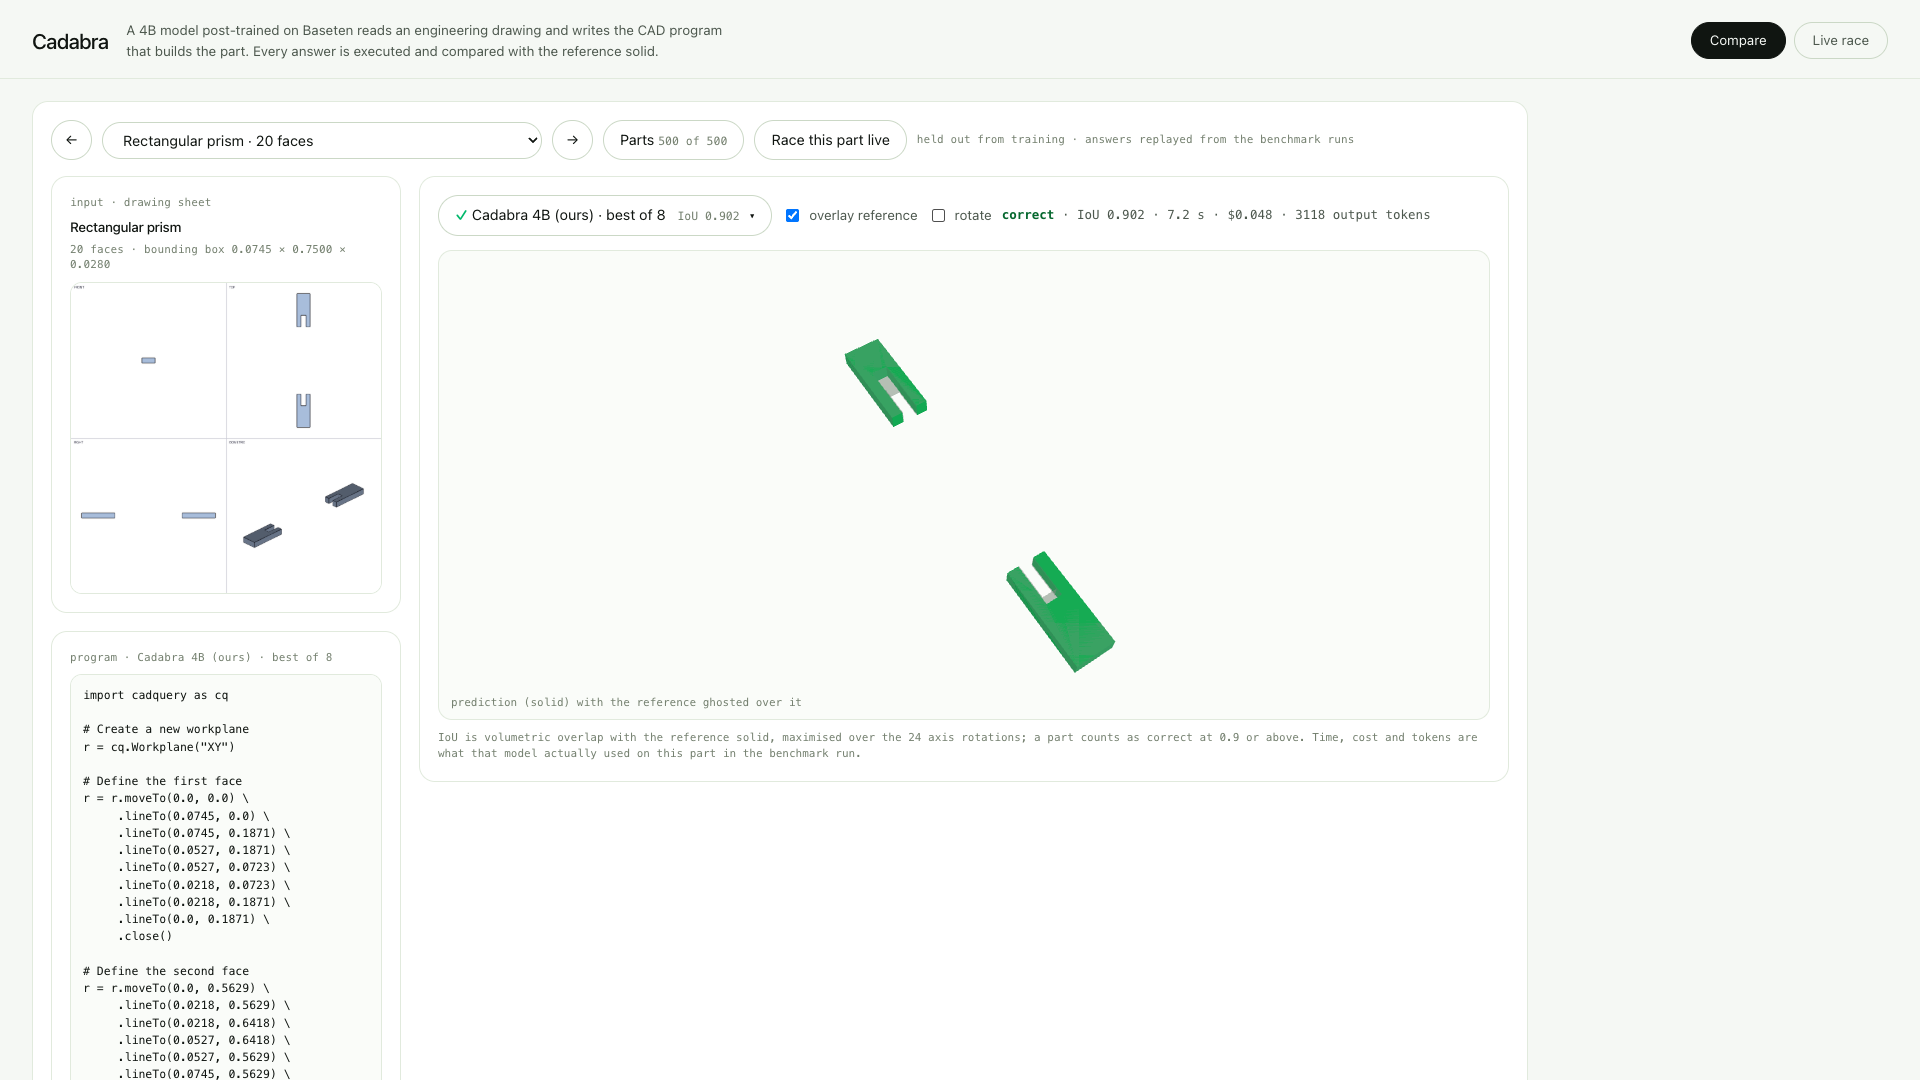
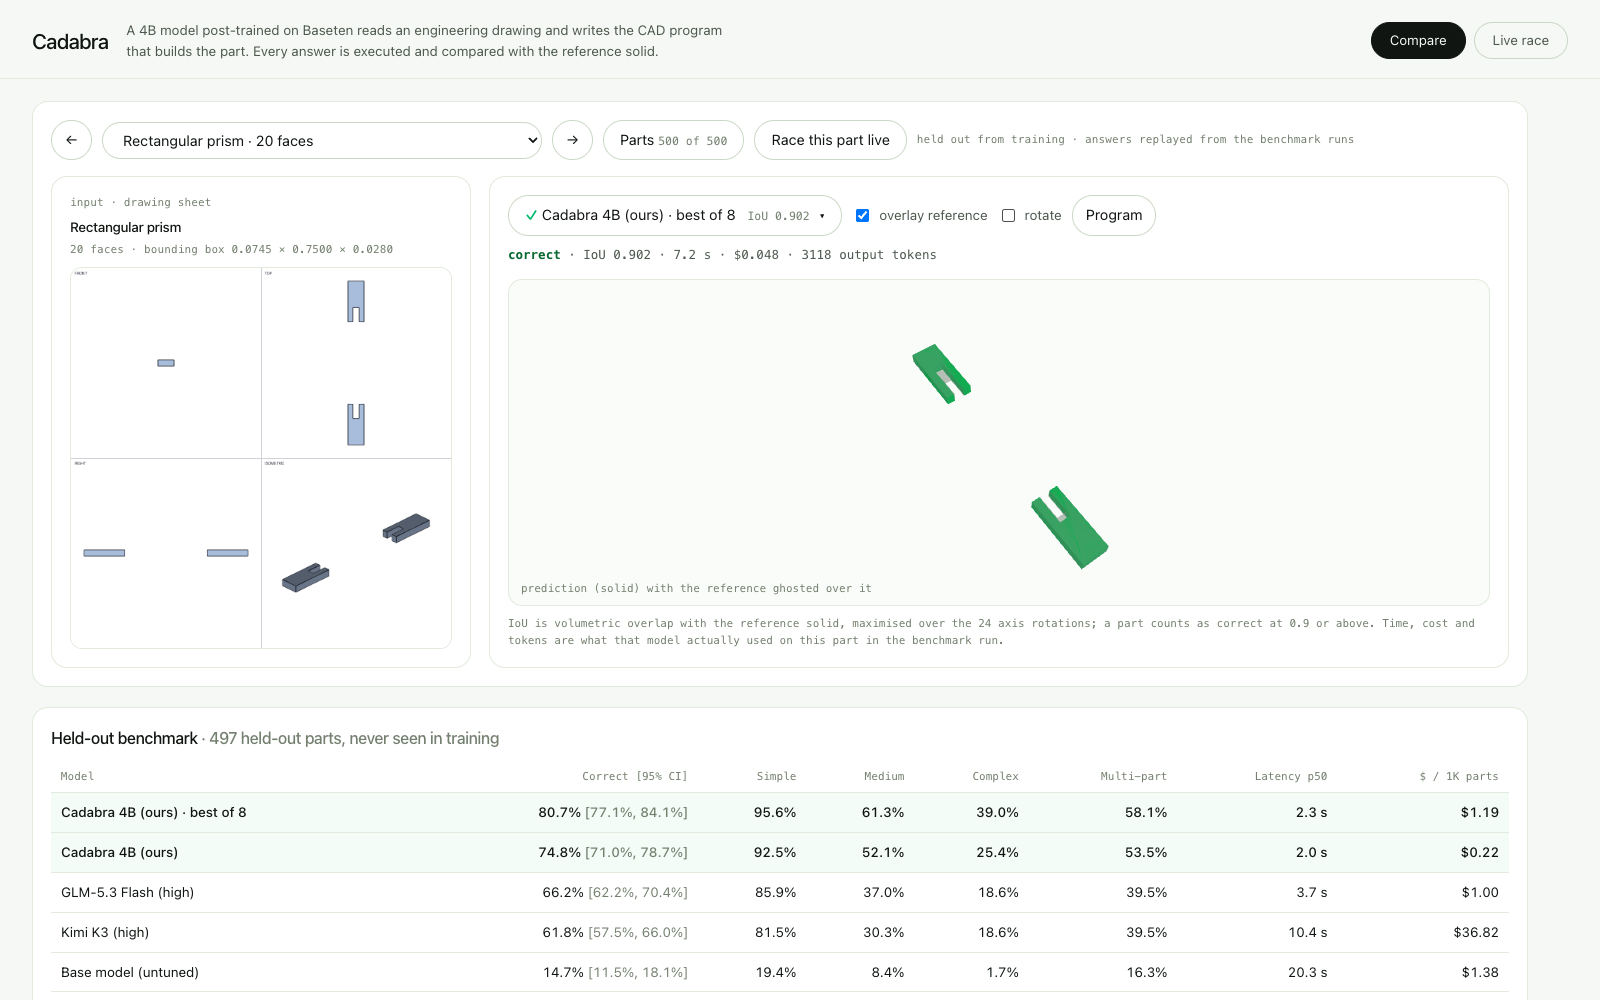
Compare: one tile of drawing, one of geometry, ending on the same line
The program panel under the drawing made the left column taller than the right and left a band of empty page beside
it. The program moves behind a Program button in the stage toolbar, as a slide-over like the parts list, and the two
tiles now stretch to a common height that the drawing sets: it keeps its square aspect so no empty card shows under
it, and the stage fills whatever height that is (flex-basis 0, or the canvas's own size feeds back into the layout
and the tile grows on every resize). The wider left column also makes the drawing legible at 382px instead of 312px.

diff --git a/app/static/index.html b/app/static/index.html
@@ -38,9 +38,16 @@
   label.check { display: inline-flex; align-items: center; gap: 7px; color: var(--ink-2); font-size: 13.5px; }
   .card { background: var(--surface); border: 1px solid var(--line); border-radius: 16px; padding: 18px; min-width: 0; }
   .split { display: grid; grid-template-columns: minmax(260px, 350px) minmax(0, 1fr); gap: 18px; align-items: start; }
+  /* Compare: the drawing sets the height of the row -- it keeps its own square aspect, so no band of empty card under
+     it -- and the stage stretches to meet it, so neither tile ends short of the other. A wider left column therefore
+     buys a bigger drawing and a bigger stage at once. */
+  .split.flush { grid-template-columns: minmax(300px, 420px) minmax(0, 1fr); align-items: stretch; }
+  .split.flush > .card:last-child { display: flex; flex-direction: column; }
+  /* flex-basis 0, or the canvas's own size counts as content height and each resize grows the tile again */
+  .split.flush .stage { flex: 1 1 0; height: auto; min-height: 320px; }
   @media (max-width: 1020px) { .split { grid-template-columns: 1fr; } }
   .sheet img { width: 100%; border: 1px solid var(--line); border-radius: 12px; background: #fff; display: block; }
-  .col { display: grid; gap: 18px; align-content: start; }
+
   .dropdown { position: relative; }
   .model-btn { display: inline-flex; align-items: center; gap: 9px; max-width: 460px; }
   .menu { position: absolute; z-index: 40; top: calc(100% + 6px); left: 0; min-width: 330px; background: var(--surface);
@@ -133,18 +140,12 @@
       <span class="label" id="partnote"></span>
     </div>
 
-    <div class="split" style="margin-top:16px">
-      <div class="col">
-        <div class="card sheet">
-          <div class="label">input · drawing sheet</div>
-          <h3 style="margin:6px 0 4px" id="parttitle"></h3>
-          <div class="label" style="margin-bottom:10px" id="bboxline"></div>
-          <img id="sheet" alt="drawing sheet">
-        </div>
-        <div class="card">
-          <div class="label" id="codeowner">program</div>
-          <pre id="stagecode" style="margin-top:8px"></pre>
-        </div>
+    <div class="split flush" style="margin-top:16px">
+      <div class="card sheet" id="sheetcard">
+        <div class="label">input · drawing sheet</div>
+        <h3 style="margin:6px 0 4px" id="parttitle"></h3>
+        <div class="label" style="margin-bottom:10px" id="bboxline"></div>
+        <img id="sheet" alt="drawing sheet">
       </div>
 
       <div class="card">
@@ -155,6 +156,7 @@
           </div>
           <label class="check"><input type="checkbox" id="overlay" checked> overlay reference</label>
           <label class="check"><input type="checkbox" id="spin" checked> rotate</label>
+          <button id="progBtn" class="icon">Program</button>
           <span class="stats" id="stagestats"></span>
         </div>
         <div class="stage" id="stage"><span class="hint" id="stagehint"></span></div>
@@ -195,6 +197,14 @@
 </main>
 
 <div class="backdrop" id="backdrop" hidden></div>
+<aside class="drawer" id="progdrawer" hidden aria-label="program">
+  <div class="bar" style="justify-content:space-between">
+    <h2>Program</h2>
+    <button id="progClose" class="icon" title="close (Esc)">✕</button>
+  </div>
+  <div class="label" id="codeowner" style="margin-top:12px">program</div>
+  <pre id="stagecode" style="margin-top:8px; max-height:none"></pre>
+</aside>
 <aside class="drawer" id="drawer" hidden aria-label="parts">
   <div class="bar" style="justify-content:space-between">
     <h2>Parts</h2>
@@ -550,12 +560,22 @@ function drawList() {
 
 function openDrawer(open) {
   $("#drawer").hidden = !open;
-  $("#backdrop").hidden = !open;
+  if (open) $("#progdrawer").hidden = true;
+  syncBackdrop();
   if (open) { drawList(); $("#search").focus(); }
 }
+function openProgram(open) {
+  $("#progdrawer").hidden = !open;
+  if (open) $("#drawer").hidden = true;
+  syncBackdrop();
+}
+const syncBackdrop = () => ($("#backdrop").hidden = $("#drawer").hidden && $("#progdrawer").hidden);
+const closePanels = () => { openDrawer(false); openProgram(false); };
 $("#partsBtn").onclick = () => openDrawer($("#drawer").hidden);
+$("#progBtn").onclick = () => openProgram($("#progdrawer").hidden);
 $("#drawerClose").onclick = () => openDrawer(false);
-$("#backdrop").onclick = () => openDrawer(false);
+$("#progClose").onclick = () => openProgram(false);
+$("#backdrop").onclick = closePanels;
 $("#search").oninput = drawList;
 $("#filters").querySelectorAll("[data-f]").forEach((b) => (b.onclick = () => {
   filter = b.dataset.f;
@@ -569,8 +589,8 @@ $("#selNone").onclick = () => {
   saveExcluded(); fillParts(); drawList();
 };
 document.addEventListener("keydown", (e) => {
-  if (e.key === "Escape") { openDrawer(false); closeMenu(); }
-  if ($("#compare").hidden || $("#drawer").hidden === false || e.target.matches("input, select, textarea")) return;
+  if (e.key === "Escape") { closePanels(); closeMenu(); }
+  if ($("#compare").hidden || !$("#drawer").hidden || !$("#progdrawer").hidden || e.target.matches("input, select, textarea")) return;
   if (e.key === "ArrowLeft") step(-1);
   if (e.key === "ArrowRight") step(1);
 });

diff --git a/scripts/ui_check.py b/scripts/ui_check.py
@@ -91,8 +91,8 @@ def main() -> None:
             page.query_selector_all("#modelMenu button")[i].click()
             page.wait_for_timeout(900)
             stats = page.inner_text("#stagestats")
-            code = page.locator("#stagecode").text_content() or ""
-            owner = page.inner_text("#codeowner")
+            code = page.locator("#stagecode").text_content() or ""      # the program panel is a slide-over
+            owner = page.locator("#codeowner").text_content() or ""
             if i == 0:
                 check(canvas_has_content(page, "#stage"), "reference renders in the stage")
                 check(code.strip().startswith("import cadquery"), "reference program shown", code[:40])
@@ -161,6 +161,21 @@ def main() -> None:
         page.wait_for_timeout(1400)
         check(page.eval_on_selector("#parts", "e => e.value") == before, "previous comes back")
         check(page.inner_text("#stagestats").strip() != "", "stats redraw after moving")
+
+        print("\nprogram panel")
+        page.click("#progBtn")
+        page.wait_for_timeout(500)
+        check(page.is_visible("#progdrawer"), "the program panel opens")
+        check((page.inner_text("#stagecode") or "").strip().startswith("import cadquery"), "it shows the program",
+              page.inner_text("#stagecode")[:40])
+        page.click("#backdrop", position={"x": 20, "y": 20})
+        page.wait_for_timeout(400)
+        check(not page.is_visible("#progdrawer"), "clicking outside closes it")
+        page.click("#progBtn")
+        page.wait_for_timeout(400)
+        page.keyboard.press("Escape")
+        page.wait_for_timeout(400)
+        check(not page.is_visible("#progdrawer") and not page.is_visible("#backdrop"), "Escape closes it")
 
         print("\nparts drawer")
         page.click("#partsBtn")
